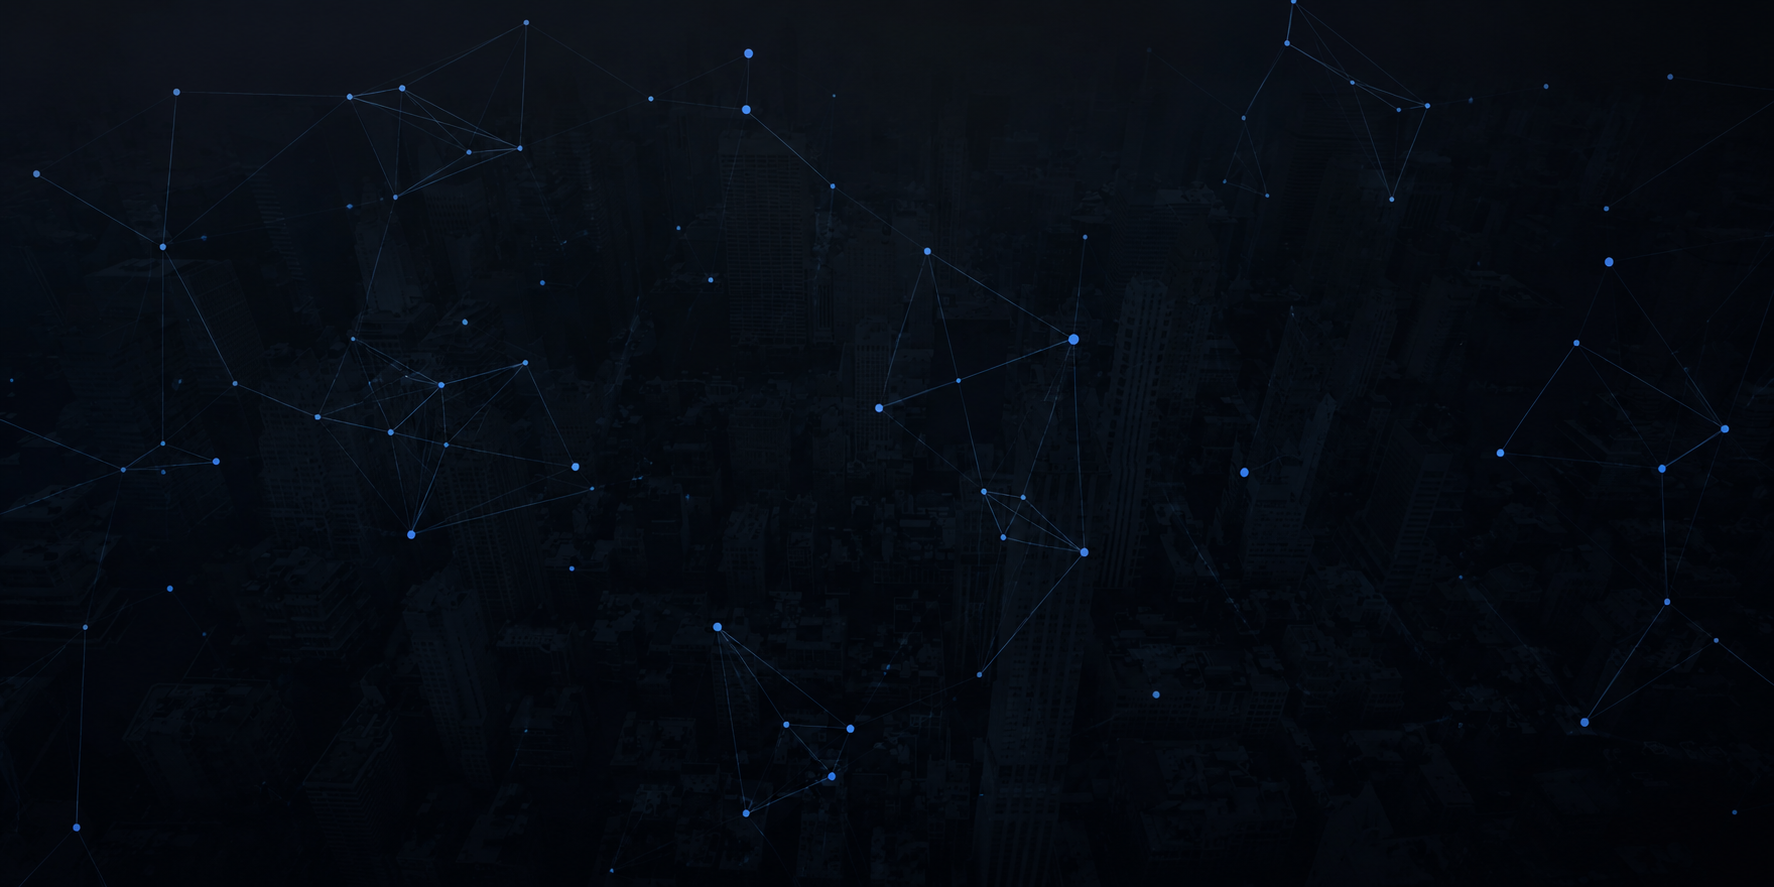
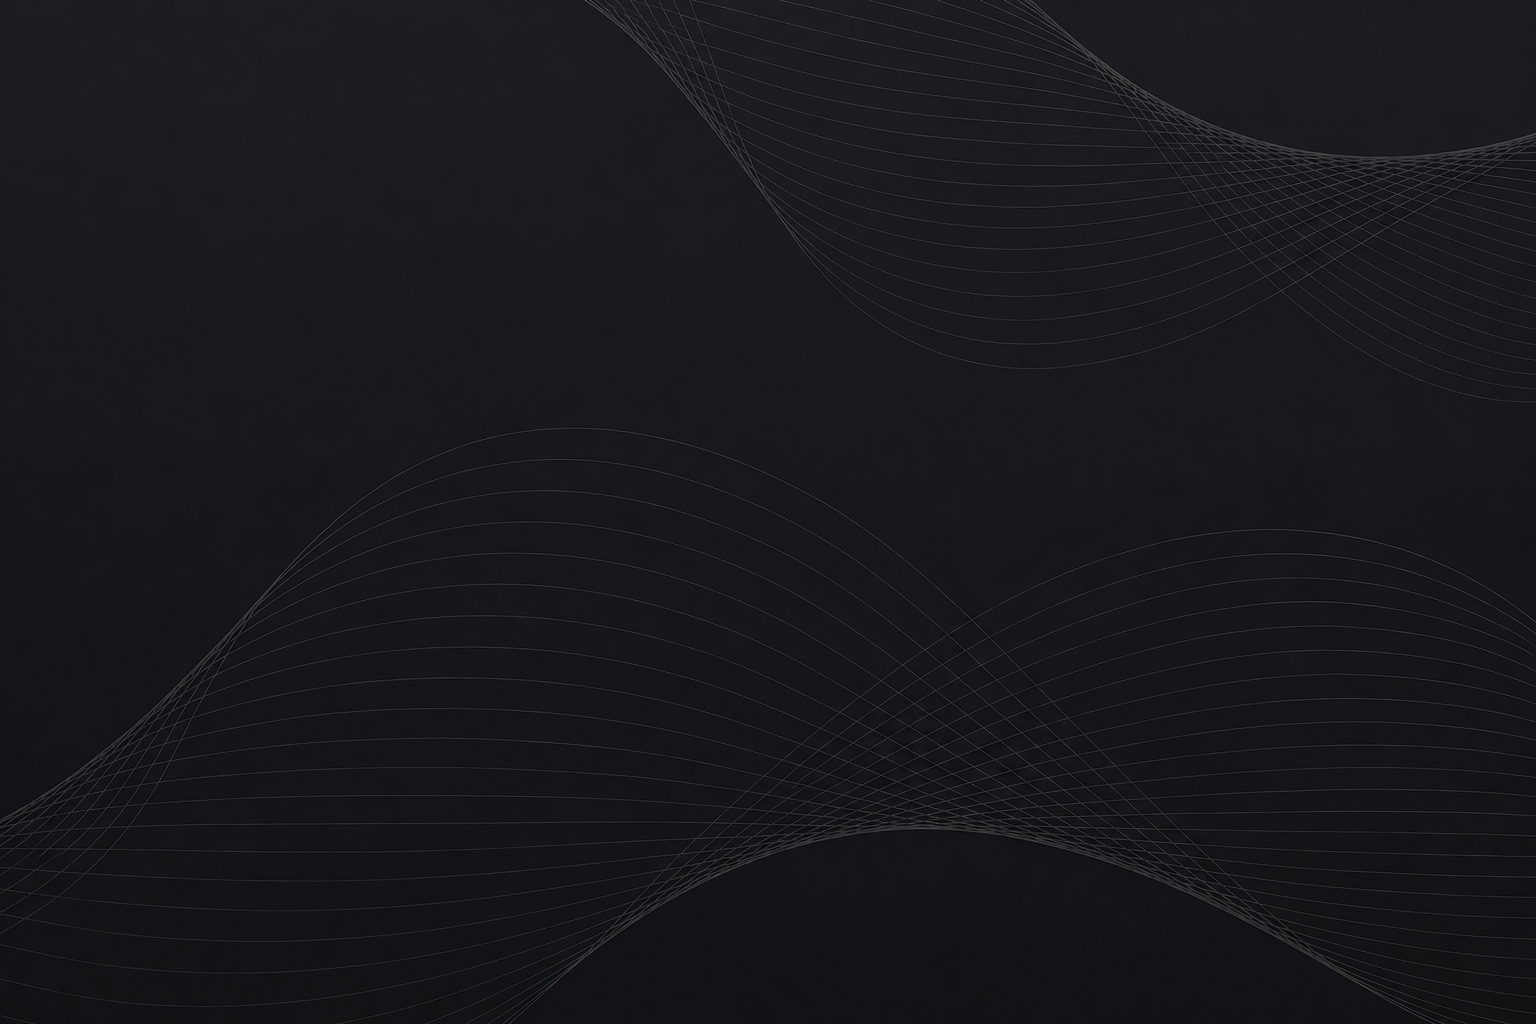
second

diff --git a/src/pages/offers/index.jsx b/src/pages/offers/index.jsx
@@ -43,7 +43,7 @@ const Offers = () => {
   const [loadingDomain, setLoadingDomain] = useState(true);
   const defaultDomain = {
   domain: "domian.com",
-  price: "2000,000",
+  price: "2,000,000",
   description:
     "این دامنه برای فروش در دسترس است. برای دریافت اطلاعات بیشتر و ثبت پیشنهاد خرید با ما در ارتباط باشید.",
 };
@@ -140,6 +140,7 @@ const Offers = () => {
 
   return (
     <div id="offers" className="relative min-h-screen flex items-center py-10">
+
       <img
         src={bg}
         className="absolute inset-0 object-cover -z-1 w-full h-full"
@@ -151,32 +152,28 @@ const Offers = () => {
             className="col-span-2 flex flex-col gap-7 items-center lg:items-start"
             style={{ "--from": "translateX(40px)" }}
           >
-            <div className="bg-[var(--color-danger)] w-fit text-white p-2 rounded-xl">
-              <h2>برای فروش!</h2>
+            <div className="bg-[var(--color-danger)] w-fit text-white py-2 px-4  rounded-xl">
+              <h2>این دامنه برای فروش است!</h2>
             </div>
             <h1 className="text-[40px] lg:text-[60px] text-[var(--color-text)]">
               {/* {domainName} */}
               {domainData?.domain}
             </h1>
-            <div className="flex gap-3 items-center">
+            <div className="flex flex-col md:flex-row gap-3 items-center">
               <h3 className="text-[var(--color-text)]">ارزش تقریبی:</h3>
               <div className="flex gap-2 bg-[var(--color-success)] text-[var(--color-text)] p-2 rounded-xl">
-                {/* <h3>1000</h3>
-                <h3>تومان</h3> */}
                 <h3>{domainData?.price}</h3>
                 <h3>تومان</h3>
               </div>
             </div>
-            <div className="text-[var(--color-text)] text-lg">
-              {/* دامنه مناسب کسبوکار خود را پیدا کنید و حضور آنلاین خود را با
-              اطمینان آغاز کنید. */}
+            <div className="text-[var(--color-text)] text-lg text-justify">
               {domainData?.description}
             </div>
             <div className="flex flex-col lg:flex-row gap-5 lg:gap-15">
               <div>
                 <a
                   href=""
-                  className="flex gap-3 items-center hover:text-[var(--color-text)]/70"
+                  className="flex gap-3 items-center justify-center hover:text-[var(--color-text)]/70"
                 >
                   <FaPhone size={24} />
                   <div className="text-lg">12345 - 021</div>
@@ -185,7 +182,7 @@ const Offers = () => {
               <div>
                 <a
                   href=""
-                  className="flex gap-3 items-center hover:text-[var(--color-text)]/70"
+                  className="flex gap-3 items-center justify-center hover:text-[var(--color-text)]/70"
                 >
                   <FaEnvelope size={24} />
                   <div className="text-lg">test@gmail.com</div>
@@ -195,7 +192,7 @@ const Offers = () => {
                 <Link
                   // to={"/domains"}
                   to={"/"}
-                  className="flex gap-3 items-center hover:text-[var(--color-text)]/70"
+                  className="flex gap-3 items-center justify-center hover:text-[var(--color-text)]/70"
                 >
                   <FaGlobe size={24} />
                   <div className="text-lg">مشاهده همه دامنه ها</div>
@@ -203,14 +200,14 @@ const Offers = () => {
               </div>
             </div>
             <div className="flex flex-col gap-5 bg-gray-500/20 p-4 rounded-xl w-fit">
-              <div className="text-lg">
+              <div className="text-lg text-justify">
                دامنه خود را رایگان ثبت کنید تا در بازار فروش دامنه سایت در دسترس هزاران خریدار قرار گیرد.
               </div>
               <Link
                 to={"/partnership"}
-                className="bg-[var(--color-accent)] w-fit p-2 rounded-xl text-lg hover:opacity-90 transition-all mx-auto lg:mx-0"
+                className="bg-[var(--color-accent)] w-fit py-2 px-3 rounded-xl text-lg hover:opacity-90 transition-all mx-auto lg:mx-0"
               >
-                درخواست همکاری
+                آگهی فروش دامنه
               </Link>
             </div>
              <div className="flex gap-3">

diff --git a/src/pages/partnership/index.jsx b/src/pages/partnership/index.jsx
@@ -25,7 +25,6 @@ const Partnership = () => {
     email: "",
     domain: "",
     price: "",
-    des: "",
   });
 
   const [loading, setLoading] = useState(false);
@@ -65,7 +64,6 @@ const Partnership = () => {
           email: form.email,
           domain: form.domain,
           price: form.price,
-          des: form.des,
         }),
       });
 
@@ -79,7 +77,6 @@ const Partnership = () => {
           email: "",
           domain: "",
           price: "",
-          des: "",
         });
         setCaptcha(generateCaptcha());
         setCaptchaValue("");
@@ -92,25 +89,24 @@ const Partnership = () => {
   };
 
   return (
-    <div id="partnership" className="relative min-h-screen py-10">
+    <div id="partnership" className="relative min-h-screen py-8">
       <img
         src={bg}
         className="absolute inset-0 object-cover -z-10 w-full h-full"
         alt=""
       />
       <div className="app-container">
-        <div className="flex flex-col gap-3 lg:gap-12 justify-center items-center">
-          <div className="text-center">
+        <div className="flex flex-col gap-3 lg:gap-5 justify-center items-center">
+          <div className="">
             <div className="flex gap-2 items-center">
               <FaHandshake size={35} color="var(--color-accent)" />
               <h2>درخواست همکاری</h2>
             </div>
-            <div className="text-lg text-white">
-              اگر در زمینه فروش دامنه فعالیت میکنید، خوشحال میشویم درباره
-              فرصتهای همکاری با شما گفتگو کنیم.
+            <div className="text-lg text-white text-justify">
+             دامنه خود را رایگان ثبت کنید تا در بازار فروش دامنه سایت در دسترس هزاران خریدار قرار گیرد.
             </div>
           </div>
-          <div className="flex flex-col gap-2 lg:w-[70%] mt-10 lg:mt-0">
+          <div className="flex flex-col gap-2 lg:w-[80%] mt-10 lg:mt-0">
             <div className="flex items-center justify-end w-full ">
               <Link
                 // to={"/domains"}
@@ -125,11 +121,10 @@ const Partnership = () => {
               className=" bg-[var(--color-soft)] rounded-xl p-7 scroll-anim"
               style={{ "--from": "translateY(40px)" }}
             >
-              <form onSubmit={handleSubmit} className="flex flex-col gap-4">
-                <h2 className="text-[var(--color-smooth)]">ثبت پیشنهاد فروش</h2>
+              <form onSubmit={handleSubmit} className="flex flex-col gap-3">
+                <h2 className="text-[var(--color-smooth)]">ثبت رایگان آگهی دامنه</h2>
                 <div className="text-[var(--color-muted)] text-lg">
-                  لطفاً فرم زیر را تکمیل کنید تا درخواست همکاری شما توسط تیم ما
-                  بررسی شود.
+                لطفا فرم زیر را پر کنید تا ثبت آگهی دامنه شما توسط همکاران ما بررسی شود.
                 </div>
                 <div className="flex flex-col lg:flex-row gap-3 w-full">
                   {/* نام و نام خانوادگی */}
@@ -191,17 +186,6 @@ const Partnership = () => {
                     onChange={handleChange}
                     type="text"
                     placeholder="دامنه را وارد نمایید"
-                    className="w-full rounded-xl text-[var(--color-smooth)] border-2 border-gray-300 px-4 py-3 outline-none focus:border-[var(--color-accent)] placeholder:text-gray-400"
-                  />
-                </div>
-
-                {/*توضبحات*/}
-                <div className="md:col-span-1">
-                  <textarea
-                    name="des"
-                    value={form.des}
-                    onChange={handleChange}
-                    placeholder="توضیحات را وارد نمایید"
                     className="w-full rounded-xl text-[var(--color-smooth)] border-2 border-gray-300 px-4 py-3 outline-none focus:border-[var(--color-accent)] placeholder:text-gray-400"
                   />
                 </div>
